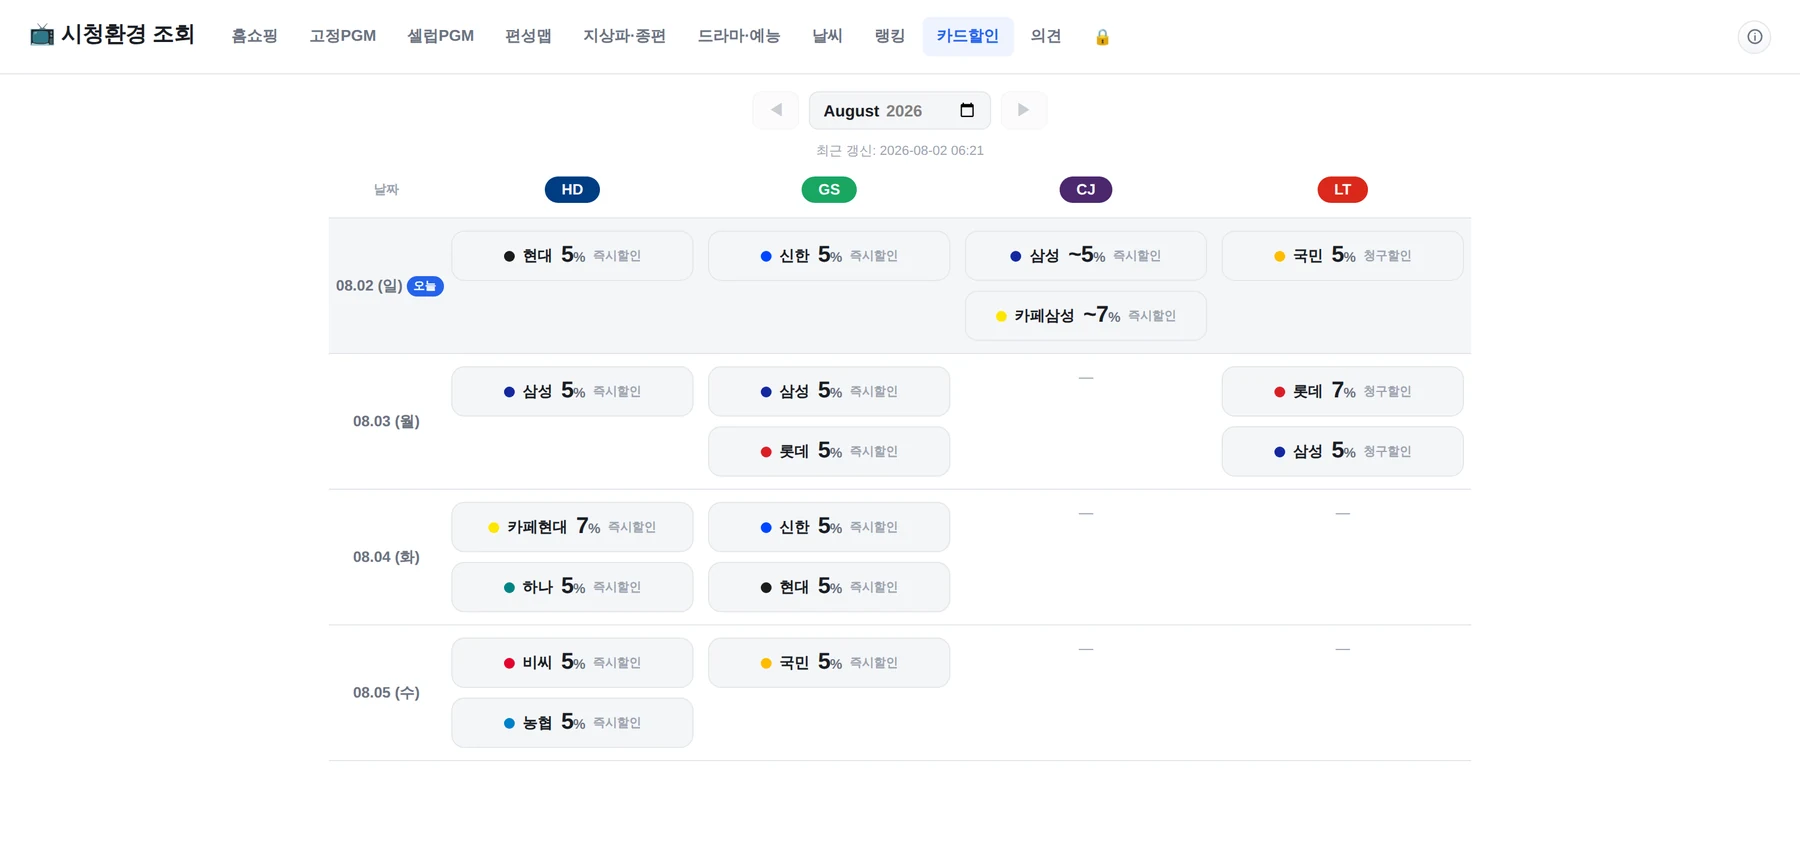
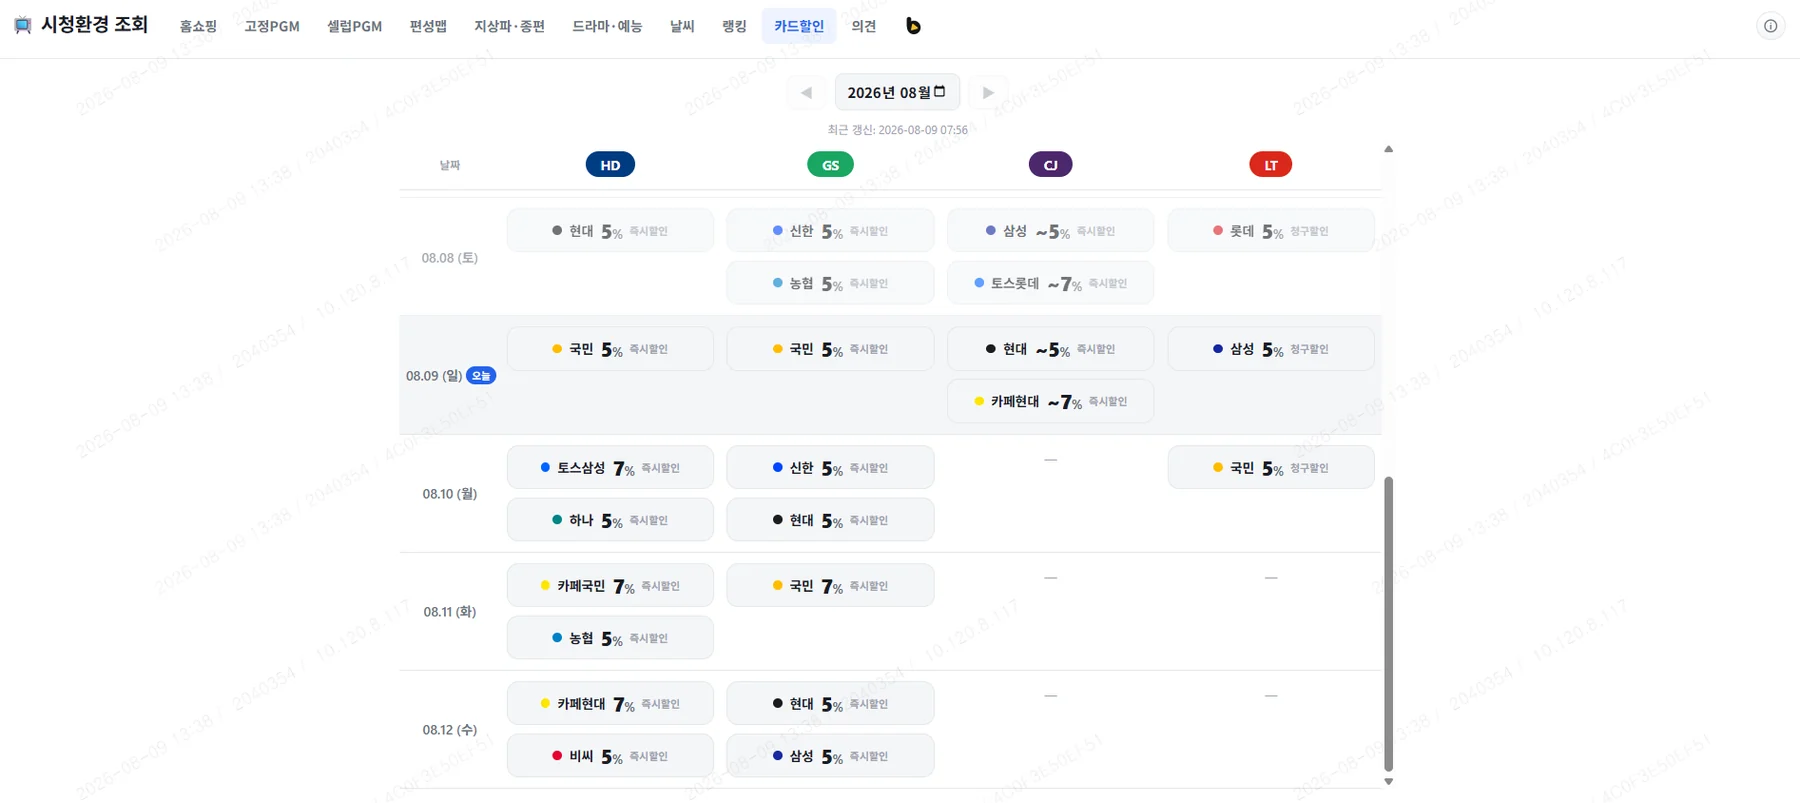
Add health tracker capture, update card discount, add site link
hdhs 사이트 개편 내용을 반영했습니다.

- 건강프로그램 추적 화면 추가 (images/hdhs/health-tracker.webp)
  지상파·종편 건강 프로그램을 선별해 같은 시간대 홈쇼핑 건강식품
  편성 비중을 집계하는 기능
- 카드 할인 화면을 개편 버전으로 교체하고 설명 보강
  (카드사·할인율에 더해 즉시할인/청구할인 유형 구분 반영)
- 히트맵 화면 제목을 사이트 실제 탭명인 '편성맵'으로 수정
- 업로드된 파일명(타임스탬프)을 내용 기준으로 변경하고 webp 로 변환
  20260809_133807.png → health-tracker.webp (320KB → 153KB)
  20260809_133835.png → promotion.webp (163KB → 43KB)

프로젝트 바로가기 링크 기능 추가
- PROJECTS 에 link: { href, label } 를 넣으면 본문 상단에 버튼이 표시됨
- 프로젝트 3 에 https://hdmzp.github.io/hdhs/ 연결

Claude-Session: https://claude.ai/code/session_01HPYi3Ui74eGGtBjPM3J3tL

diff --git a/assets/data.js b/assets/data.js
@@ -17,6 +17,7 @@ const CAREER_START = new Date(2020, 9, 20); // 월은 0부터 → 9 = 10월
      badge:   "우측 상단 뱃지",        // 생략 가능
      period:  "2024.11 ~ 현재",        // 생략 가능
      summary: "접혀 있을 때 보이는 한 줄 요약",  // 생략 가능
+     link:    { href: "https://...", label: "사이트 바로가기" },  // 생략 가능
      items: [ ...세부 항목... ]
    }
 
@@ -299,6 +300,7 @@ const PROJECTS = [
     badge: "AI 활용력",
     period: "진행 중",
     summary: "홈쇼핑 14개사 편성 정보를 한 화면에서 조회하는 서비스",
+    link: { href: "https://hdmzp.github.io/hdhs/", label: "사이트 바로가기" },
     items: [
       {
         no: "3-1",
@@ -345,10 +347,19 @@ const PROJECTS = [
           },
           {
             src: "images/hdhs/industry.webp",
-            title: "시간대별 편성 히트맵 · 인사이트",
+            title: "편성맵 — 시간대별 히트맵 · 인사이트",
             desc: [
               "날짜 × 시간대 히트맵으로 업계 전체 편성 밀도 시각화",
-              "시간대별 카테고리 운영 경향을 요약해 인사이트로 제공"
+              "선택한 시간대에 주로 어떤 방송이 진행되는지 요약해 제공"
+            ]
+          },
+          {
+            src: "images/hdhs/health-tracker.webp",
+            title: "건강프로그램 추적",
+            desc: [
+              "지상파 · 종편 편성에서 건강 프로그램을 제목 · 이력 기준으로 자동 선별",
+              "방영일마다 <b>같은 시간대 홈쇼핑 건강식품 편성 비중이 높았는지</b>를 집계해 연계비중으로 산출",
+              "채널 · 홈쇼핑사별 필터를 제공하고, 프로그램별 운영상품 비중까지 함께 표시"
             ]
           },
           {
@@ -379,8 +390,9 @@ const PROJECTS = [
             src: "images/hdhs/promotion.webp",
             title: "카드 할인 조회",
             desc: [
-              "날짜별 · 홈쇼핑사별 카드 할인 조건을 한눈에 비교",
-              "프로모션 경쟁 상황 파악에 활용"
+              "날짜 × 사업자(HD · GS · CJ · LT)별 카드 할인 조건을 한눈에 비교",
+              "카드사 · 할인율과 즉시할인 / 청구할인 유형까지 구분해 표시",
+              "경쟁사 프로모션 상황 파악 및 조건 설계에 활용"
             ]
           },
           {

diff --git a/assets/app.js b/assets/app.js
@@ -91,6 +91,12 @@ function renderProject(p, i) {
   const no = String(i + 1).padStart(2, "0");
   const meta = [p.period, p.summary].filter(Boolean).map(t => `<span>${t}</span>`).join("");
   const items = (p.items || []).map(renderItem).join("");
+  // 실제로 열어볼 수 있는 결과물이 있으면 본문 맨 위에 바로가기 버튼을 놓습니다.
+  const link = p.link
+    ? `<a class="p-link" href="${p.link.href}" target="_blank" rel="noopener">
+         ${p.link.label || "바로가기"}<span aria-hidden="true">↗</span>
+       </a>`
+    : "";
   return `<details class="proj" id="project-${i + 1}">
       <summary>
         <span class="p-no">${no}</span>
@@ -101,7 +107,7 @@ function renderProject(p, i) {
         </span>
         <span class="p-meta">${meta}</span>
       </summary>
-      <div class="p-body">${items}</div>
+      <div class="p-body">${link}${items}</div>
     </details>`;
 }
 

diff --git a/assets/style.css b/assets/style.css
@@ -205,6 +205,16 @@ section { padding: 52px 0 4px; }
 .p-body { padding: 0 22px 24px; border-top: 1px solid var(--grid); margin-top: 2px; padding-top: 4px; }
 @media (max-width: 640px) { .p-body { padding: 4px 16px 20px; } }
 
+/* 결과물 바로가기 버튼 */
+.p-link {
+  display: inline-flex; align-items: center; gap: 7px; margin-top: 20px;
+  font-size: 13.5px; font-weight: 750; color: #fff; background: var(--accent);
+  border-radius: 999px; padding: 9px 18px;
+}
+.p-link:hover { text-decoration: none; filter: brightness(1.08); }
+.p-link span { font-size: 12px; }
+.p-link + .item { padding-top: 20px; }
+
 /* 세부 항목 (1-1, 1-2 ...) */
 .item { padding-top: 24px; }
 .item + .item { border-top: 1px dashed var(--grid); margin-top: 8px; }

diff --git a/images/README.md b/images/README.md
@@ -44,7 +44,8 @@
 | `hdhs/homeshop_list.webp` | 홈쇼핑 편성 조회 (분류별) |
 | `hdhs/fixedpgm.webp` | 고정 PGM 편성표 |
 | `hdhs/celebrity.webp` | 셀럽 PGM 조회 |
-| `hdhs/industry.webp` | 시간대별 편성 히트맵 · 인사이트 |
+| `hdhs/industry.webp` | 편성맵 — 시간대별 히트맵 · 인사이트 |
+| `hdhs/health-tracker.webp` | 건강프로그램 추적 |
 | `hdhs/schedule.webp` | 지상파 · 종편 편성표 |
 | `hdhs/dramavariety.webp` | 드라마 · 예능 편성 및 시청률 |
 | `hdhs/ranking.webp` | 주간 랭킹 |
